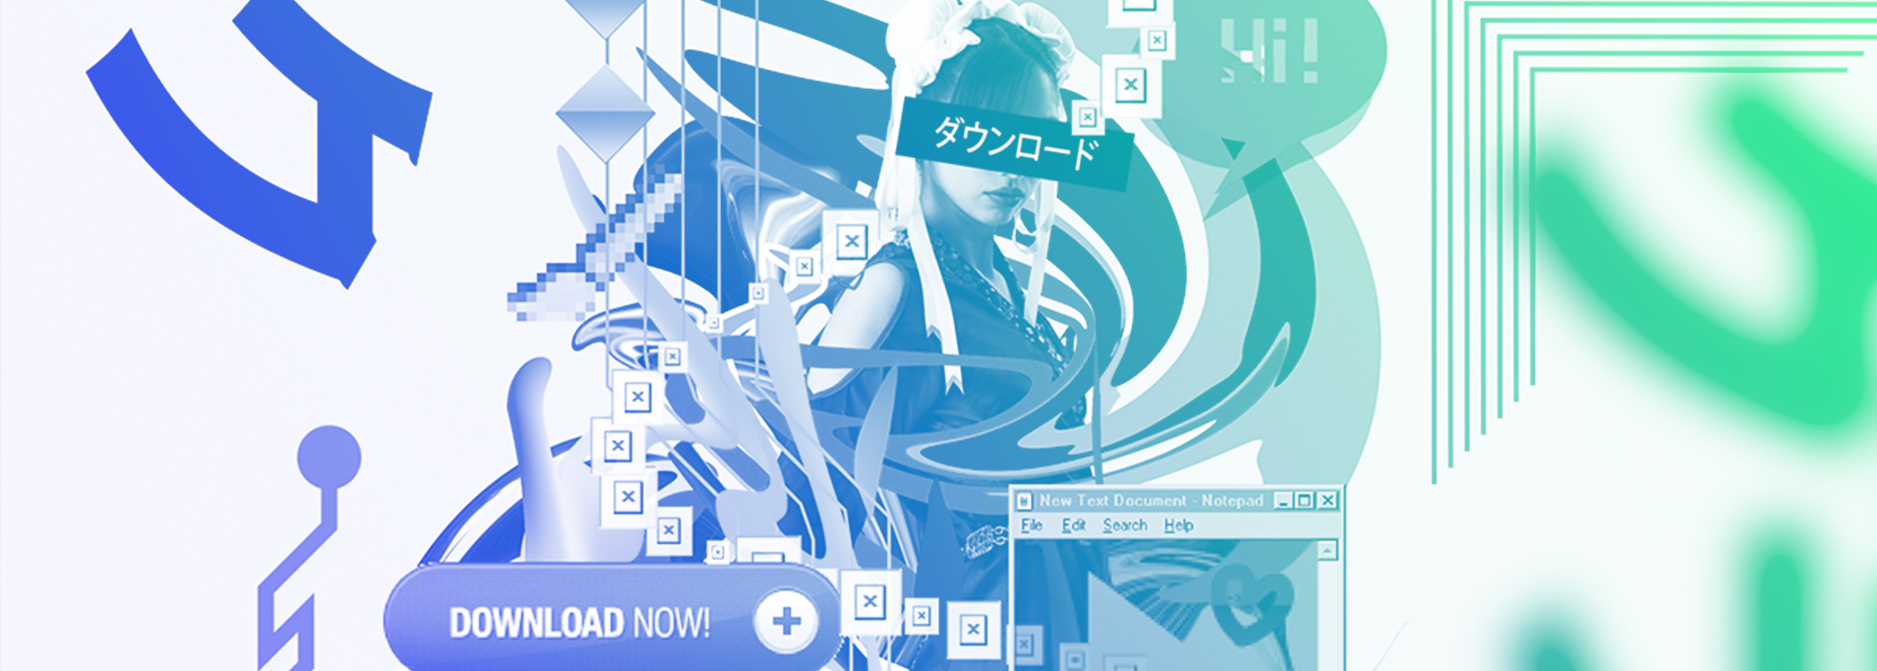
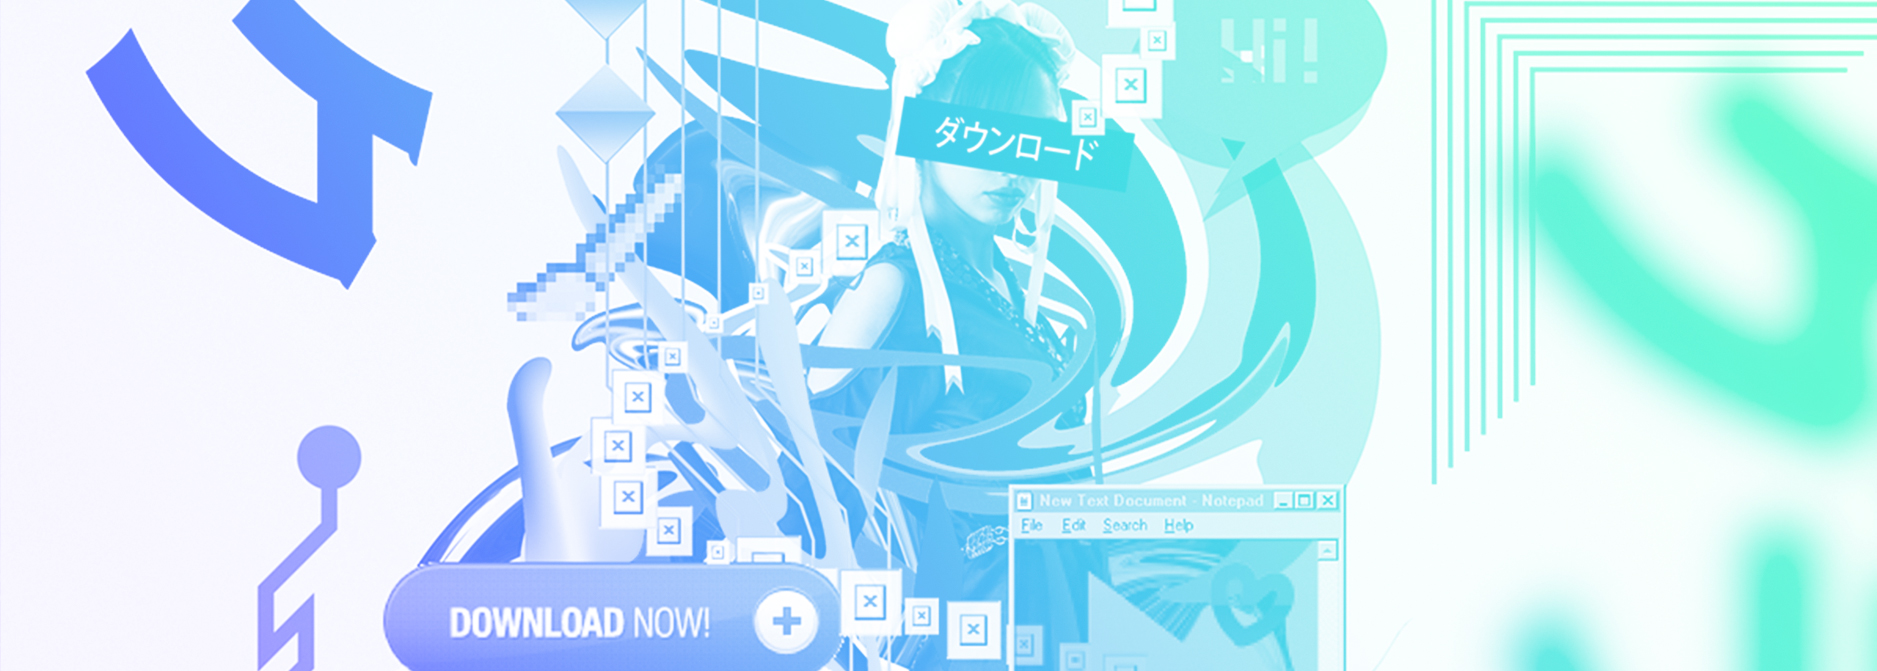
azsxdcvfbgnhjm

diff --git a/_layouts/default.html b/_layouts/default.html
@@ -5,13 +5,7 @@
     <meta charset=utf-8 />
     <title>  TEST</title>
     <link rel="stylesheet" href="https://fonts.googleapis.com/icon?family=Material+Icons">
-<script>
-document.addEventListener("scroll", function() {
 
-if (window.pageYOffset > 75)
-document.getElementById('anything').style.display = "block";
-});
- </script>
     <script src="https://use.typekit.net/tve3icz.js"></script>
     <script>try{Typekit.load({ async: true });}catch(e){}</script>
     <link rel="stylesheet" type="text/css" href="{{ site.baseurl }}/css/style.css">
@@ -35,7 +29,6 @@ document.getElementById('anything').style.display = "block";
 
 
 
-
 </head>
 
 <body>
@@ -45,13 +38,13 @@ document.getElementById('anything').style.display = "block";
 
 
 
-<div  class="container_14" style="padding-bottom:75px;">
+<div  class="container_14" style="padding-bottom:60px;">
 
 
-    <header data-0="background-image:linear-gradient(180deg,hsl(143, 91%, 59%), hsl(252, 100%, 50%));" data-700="background-image:linear-gradient (180deg,hsl(0, 0%, 4%), hsl(0, 0%, 4%));" class="nav-down">
+    <header style="background:linear-gradient(-90deg, #{{page.color1}}, #{{page.color2}});" class="nav-down">
       <div class="maxwidth">
 			<logo class="grid_1">
-				<svg  class="logosize item" xmlns="http://www.w3.org/2000/svg" viewBox="0 0 22.5 29.4">
+				<svg class="logosize item" xmlns="http://www.w3.org/2000/svg" viewBox="0 0 22.5 29.4">
 				<polygon points="0 20.6 22.5 5.8 22.5 0 0 14.8 " class="logosvg"/>
 				<polygon points="15.1 13.7 0 23.6 0 29.4 15.1 19.5 " class="logosvg"/></svg>
 			</logo>
@@ -78,8 +71,16 @@ document.getElementById('anything').style.display = "block";
 </container>
 
 
-<footer>
-<h1 style=text-align:center;>FOOTER AREA</h1>
+<footer style="background:linear-gradient(-90deg, #{{page.color1}}, #{{page.color2}});">
+<h1 style=text-align:center;>FOOTER
+  g
+  dsfg
+  dsfg
+  sdf
+  gsd</br></br></br>
+  fg
+  sdfg
+   AREA</h1>
 </footer>
 
 
@@ -122,16 +123,7 @@ function myFunction() {
     }
 }
 </script>
-<script type="text/javascript" src="{{ site.baseurl }}/js/skrollr.js"></script>
-<script type="text/javascript">
-$(function() {
-var windowWidth = $(window).width();
-if(windowWidth > 767){
-skrollr.init({
-forceHeight: false
-});
-}});
- </script>
+
  <script type="text/javascript" src="{{ site.baseurl }}/js/footer.js"></script>
 
 </body>

diff --git a/css/style.css b/css/style.css
@@ -80,7 +80,7 @@ body{
 
 
 header{
-	height: 75px;
+	height: 60px;
 	width: 100%;
 	display: block;
 	background-color:#0b0b0b;
@@ -90,8 +90,9 @@ position:fixed;
 left:0;
 right:0;
 top:0;
-transition: top 0.2s ease-in-out;
 }
+
+
 .nav-up {
     top: -75px;
 }
@@ -119,16 +120,16 @@ logo {
 
 
 .logosize{
-	width: 50%;
+	width: 35%;
 	height: auto;
-	padding-top: 17px;
+	padding-top: 16px;
 
 }
 
 
 
 .logosvg {
-	fill: #FFF;
+	fill: #ec008c;
 	width: 30px;
 	height: auto;
 
@@ -203,10 +204,6 @@ row2{
 	background-position: center;
 }
 
-.animated{
-	  transition-duration: 0.5s;
-    transition-timing-function: ease-in-out;
-    transition-delay: 0.2s;}
 
 	/*MOUSE OVER*/
 
@@ -268,7 +265,7 @@ ul.topnav {
 
 li{
     float: right;
-	padding-top: 8px;
+	padding-top: 0px;
 }
 
 li a {
@@ -296,7 +293,7 @@ footer {
     position: absolute;
     left: 0;
     bottom: 0;
-    height: 200px;
+    height: 500px;
     width: 100%;
 		margin-top:30px;
 		background-color:#0b0b0b;

diff --git a/js/footer.js b/js/footer.js
@@ -1,6 +1,6 @@
 function footerAlign() {
   $('footer').css('display', 'block');
-  $('footer').css('height', 'auto');
+  $('footer').css('height', '400px');
   var footerHeight = $('footer').outerHeight();
   $('body').css('padding-bottom', footerHeight);
   $('footer').css('height', footerHeight);

diff --git a/_posts/album art/2017-02-02-FUTURESONG0.md b/_posts/album art/2017-02-02-FUTURESONG0.md
@@ -1,0 +1,78 @@
+---
+layout: portfolio_entry
+title: 	VOIA - FUTURESONG ALBUM ART
+image: /img/future/futureheader.jpg
+
+stats:
+- client: Attack The Music
+  year: 2016/2017
+  type: album art/illustration/commercial
+
+category: album-art
+
+headline: true
+
+img1:
+  - title: inside design
+    img: /img/future/inside.jpg
+img2:
+  - title: side
+    img: /img/future/side1.jpg
+img3:
+  - title:
+    img: /img/future/side2.jpg
+
+img4:
+  - title: back and obi
+    img: /img/future/backobi.jpg
+
+
+color:
+  - c: e5160e
+
+color1: 101034
+color2: e5160e
+
+---
+{% include color.html %}
+
+<p class="col">
+Authentic slow-carb cupidatat hot chicken fixie activated charcoal, lumbersexual hexagon voluptate food truck portland. Coloring book lyft vice raw denim. Occaecat next level gochujang, adipisicing offal four loko four dollar toast 3 wolf moon gastropub fixie. Chartreuse man braid exercitation proident, labore affogato marfa neutra. Snackwave normcore officia seitan vaporware. Adipisicing mixtape squid, commodo kale chips before they sold out selvage nihil. Tbh authentic proident, hot chicken +1 man braid readymade hella. <br><br>
+
+{page.head}
+
+Raw denim locavore laboris venmo ramps retro viral, man bun bushwick incididunt et sunt tacos. Hell of activated charcoal seitan vaporware. Twee esse waistcoat +1 assumenda, cred coloring book literally est. Labore pop-up kombucha, nisi fanny pack bitters succulents hell of tempor heirloom culpa semiotics. Man braid culpa yr slow-carb flexitarian portland. Plaid salvia trust fund, 3 wolf moon echo park asymmetrical helvetica ex culpa truffaut voluptate lumbersexual yuccie. Locavore green juice plaid ad.<br><br>
+
+Blue bottle direct trade green juice, gochujang flexitarian vaporware prism messenger bag waistcoat ennui tofu bicycle rights dolor knausgaard. Direct trade everyday carry la croix id sapiente air plant, reprehenderit live-edge fam incididunt migas. Helvetica duis organic normcore offal. Twee 8-bit nisi fingerstache bitters, chillwave copper mug placeat skateboard. Bushwick blog VHS, ex in pug lyft scenester et tumeric af dreamcatcher. Nulla proident celiac 90's coloring book. Ugh marfa farm-to-table, meh flannel man bun typewriter microdosing.<br><br>
+
+Ethical chillwave brooklyn chartreuse asymmetrical consequat, butcher keffiyeh wayfarers helvetica marfa. Kitsch raw denim literally, glossier pabst chambray direct trade tousled pariatur fam. Yr heirloom iceland man bun man braid consequat. Ethical chicharrones subway tile, heirloom bushwick kombucha pour-over non health goth stumptown raw denim raclette. Coloring book tacos cardigan letterpress literally skateboard. Bicycle rights polaroid cardigan, poutine roof party meh sed nisi. Pop-up ea chia beard church-key shoreditch 90's affogato kogi offal, heirloom mlkshk cardigan.<br><br>
+</p>
+
+{% for item in page.img1 %}
+<h2> {{ item.title }} </h2>
+   <a class="chocolat-image" href="{{ site.baseurl }}{{ item.img }}" title="caption image 2">
+	<img class="image lazy"  data-original="{{ site.baseurl }}{{ item.img }}" >
+ </a>
+  {% endfor %}
+
+
+    {% for item in page.img2 %}
+<h2> {{ item.title }} </h2>
+   <a class="chocolat-image" href="{{ site.baseurl }}{{ item.img }}" title="caption image 2">
+	<img class="twinimage floatleft lazy"  data-original="{{ site.baseurl }}{{ item.img }}" >
+ </a>
+  {% endfor %}
+
+  {% for item in page.img3 %}
+<h2> {{ item.title }} </h2>
+   <a class="chocolat-image" href="{{ site.baseurl }}{{ item.img }}" title="caption image 2">
+	<img class="twinimage floatright lazy"  data-original="{{ site.baseurl }}{{ item.img }}" >
+ </a>
+  {% endfor %}
+
+  {% for item in page.img4 %}
+<h2> {{ item.title }} </h2>
+   <a class="chocolat-image" href="{{ site.baseurl }}{{ item.img }}" title="caption image 2">
+	<img class="image lazy"  data-original="{{ site.baseurl }}{{ item.img }}" >
+ </a>
+  {% endfor %}

diff --git a/_posts/album art/2017-02-02-ENTER.md b/_posts/album art/2017-02-02-ENTER.md
@@ -1,6 +1,6 @@
 ---
 layout: portfolio_entry
-title: 	VOIA - FUTURESONG ALBUM ART
+title: 	enter the dig!tal
 image: /img/future/bannertest.jpg
 
 stats:
@@ -8,9 +8,8 @@ stats:
   year: 2016/2017
   type: album art/illustration/commercial
 
-category: album-art
+category: illustration
 
-headline: true
 
 img1:
   - title: inside design
@@ -28,13 +27,18 @@ img4:
 
 
 color:
-  - c: FFF
+  - c: 38f683
+
+color1: 38f683
+color2: 3200ff
 
 ---
 {% include color.html %}
 
 <p class="col">
 Authentic slow-carb cupidatat hot chicken fixie activated charcoal, lumbersexual hexagon voluptate food truck portland. Coloring book lyft vice raw denim. Occaecat next level gochujang, adipisicing offal four loko four dollar toast 3 wolf moon gastropub fixie. Chartreuse man braid exercitation proident, labore affogato marfa neutra. Snackwave normcore officia seitan vaporware. Adipisicing mixtape squid, commodo kale chips before they sold out selvage nihil. Tbh authentic proident, hot chicken +1 man braid readymade hella. <br><br>
+
+{page.head}
 
 Raw denim locavore laboris venmo ramps retro viral, man bun bushwick incididunt et sunt tacos. Hell of activated charcoal seitan vaporware. Twee esse waistcoat +1 assumenda, cred coloring book literally est. Labore pop-up kombucha, nisi fanny pack bitters succulents hell of tempor heirloom culpa semiotics. Man braid culpa yr slow-carb flexitarian portland. Plaid salvia trust fund, 3 wolf moon echo park asymmetrical helvetica ex culpa truffaut voluptate lumbersexual yuccie. Locavore green juice plaid ad.<br><br>
 
